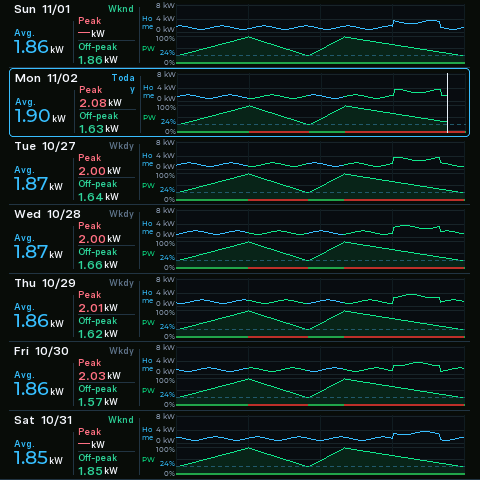
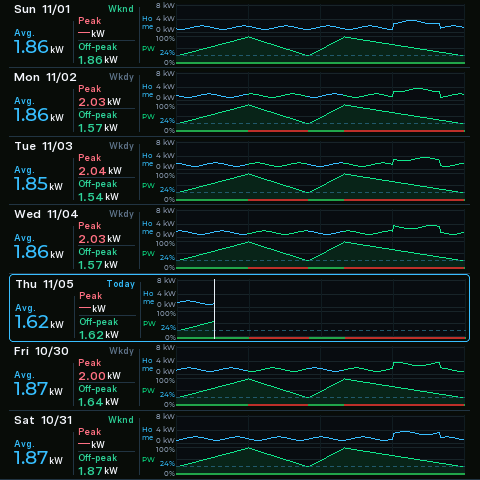
feat(480): 發布 Powerwall 趨勢與週頁標籤更新 v0.1.2

diff --git a/firmware/src/ui_480/ui_480.hpp b/firmware/src/ui_480/ui_480.hpp
@@ -139,6 +139,10 @@ public:
   static constexpr int kPwChartCursorH = 147;
   static constexpr int kPwChartCardY = 303;
   static constexpr int kPwChartCardH = 171;
+  static constexpr int kPowerwallTrendLoadH = kDashboardChartH / 2;
+  static constexpr int kPowerwallTrendSocH = kDashboardChartH - kPowerwallTrendLoadH;
+  static constexpr int kPowerwallTrendLoadY = kPwChartPlotY;
+  static constexpr int kPowerwallTrendSocY = kPwChartPlotY + kPowerwallTrendLoadH;
 
   void setWifiStartupCardMode(uint8_t mode, const char* ssid = nullptr,
                               const char* setupUrl = nullptr) {
@@ -931,6 +935,15 @@ public:
                         last_configured_ && last_telemetry_.ok &&
                         !last_telemetry_.stale && !last_telemetry_.demo;
       const lv_color_t expectedStatus = lv_color_hex(live ? 0x34d399 : 0xff5252);
+      const bool trendChartsValid =
+        pw_chart_canvas_ && lv_obj_get_x(pw_chart_canvas_) == kPwChartPlotX &&
+        lv_obj_get_y(pw_chart_canvas_) == kPowerwallTrendSocY &&
+        lv_obj_get_width(pw_chart_canvas_) == kChartW &&
+        lv_obj_get_height(pw_chart_canvas_) == kPowerwallTrendSocH &&
+        pw_load_chart_canvas_ && lv_obj_get_x(pw_load_chart_canvas_) == kPwChartPlotX &&
+        lv_obj_get_y(pw_load_chart_canvas_) == kPowerwallTrendLoadY &&
+        lv_obj_get_width(pw_load_chart_canvas_) == kChartW &&
+        lv_obj_get_height(pw_load_chart_canvas_) == kPowerwallTrendLoadH;
       return headerClockDotLayoutIsValid(pw_header_clock_, pw_header_status_dot_,
           native480_i18n::kEnglish ? native480_fonts::montserrat_16() : native480_fonts::cjk_13(), 201) &&
         page_header_ && pw_header_title_ && pw_header_clock_ && pw_header_date_ &&
@@ -948,8 +961,7 @@ public:
         lv_obj_get_style_bg_color(pw_header_status_dot_, 0).full == expectedStatus.full &&
         pw_chart_card_ && (lv_obj_get_x(pw_chart_card_) == 9) && (lv_obj_get_y(pw_chart_card_) == 303) &&
         (lv_obj_get_height(pw_chart_card_) == 171) &&
-        pw_chart_canvas_ && (lv_obj_get_x(pw_chart_canvas_) == 36) &&
-        (lv_obj_get_y(pw_chart_canvas_) == 7) && (lv_obj_get_height(pw_chart_canvas_) == 140) &&
+        trendChartsValid &&
         pw_now_line_ && (lv_obj_get_y(pw_now_line_) == 7) &&
         (lv_obj_get_height(pw_now_line_) == 147) &&
         pw_tou_segments_[0] && (lv_obj_get_y(pw_tou_segments_[0]) == 148) &&
@@ -1615,6 +1627,9 @@ private:
   lv_obj_t* pw_capacity_total_value_ = nullptr;
   lv_obj_t* pw_now_line_ = nullptr;
   lv_obj_t* pw_now_dot_ = nullptr;
+  lv_obj_t* pw_load_chart_canvas_ = nullptr;
+  lv_color_t* pw_load_chart_buf_ = nullptr;
+  lv_obj_t* pw_load_now_dot_ = nullptr;
   lv_obj_t* pw_tou_segments_[4] = {};
   lv_obj_t* pw_time_ticks_[5] = {};
   lv_obj_t* pw_reserve_chart_label_ = nullptr;
@@ -2446,15 +2461,32 @@ private:
     dashboard_chart_buf_ = allocPixelBuf(kChartW * kDashboardChartH);
     if (dashboard_chart_buf_) {
       pw_chart_canvas_ = lv_canvas_create(pw_chart_card_);
-      lv_canvas_set_buffer(pw_chart_canvas_, dashboard_chart_buf_, kChartW, kDashboardChartH, LV_IMG_CF_TRUE_COLOR);
-      lv_obj_set_pos(pw_chart_canvas_, 36, 7);
+      lv_canvas_set_buffer(pw_chart_canvas_, dashboard_chart_buf_, kChartW, kPowerwallTrendSocH, LV_IMG_CF_TRUE_COLOR);
+      lv_obj_set_pos(pw_chart_canvas_, kPwChartPlotX, kPowerwallTrendSocY);
       lv_obj_clear_flag(pw_chart_canvas_, LV_OBJ_FLAG_SCROLLABLE);
     }
-    const char* pwAxis[] = {"100%", "75%", "50%", "25%", "0%"};
-    for (int i = 0; i < 5; ++i) {
-      const int y = 3 + static_cast<int>(roundf(i * (kDashboardChartH - 5) / 4.0f));
-      makeDashboardLabel(pw_chart_card_, pwAxis[i], 0, y, 36, native480_fonts::montserrat_13(), 0x94a3b8, LV_TEXT_ALIGN_RIGHT);
+    pw_load_chart_buf_ = allocPixelBuf(kChartW * kPowerwallTrendLoadH);
+    if (pw_load_chart_buf_) {
+      pw_load_chart_canvas_ = lv_canvas_create(pw_chart_card_);
+      lv_canvas_set_buffer(pw_load_chart_canvas_, pw_load_chart_buf_, kChartW, kPowerwallTrendLoadH, LV_IMG_CF_TRUE_COLOR);
+      lv_obj_set_pos(pw_load_chart_canvas_, kPwChartPlotX, kPowerwallTrendLoadY);
+      lv_obj_clear_flag(pw_load_chart_canvas_, LV_OBJ_FLAG_SCROLLABLE);
     }
+    const lv_font_t* const trendAxisFont = native480_fonts::montserrat_12();
+    const lv_font_t* const trendTitleFont = native480_i18n::kEnglish
+      ? native480_fonts::montserrat_12() : native480_fonts::cjk_12();
+    makeDashboardLabel(pw_chart_card_, "10 kW", 0, 1, 36,
+      trendAxisFont, 0x94a3b8, LV_TEXT_ALIGN_RIGHT);
+    makeDashboardLabel(pw_chart_card_, "5 kW", 0, 32, 36,
+      trendAxisFont, 0x94a3b8, LV_TEXT_ALIGN_RIGHT);
+    makeDashboardLabel(pw_chart_card_, "0 kW", 0, 56, 36, trendAxisFont, 0x94a3b8, LV_TEXT_ALIGN_RIGHT);
+    makeDashboardLabel(pw_chart_card_, "100%", 0, 78, 36, trendAxisFont, 0x94a3b8, LV_TEXT_ALIGN_RIGHT);
+    makeDashboardLabel(pw_chart_card_, "0%", 0, 134, 36, trendAxisFont, 0x94a3b8, LV_TEXT_ALIGN_RIGHT);
+    makeDashboardLabel(pw_chart_card_, native480_i18n::kEnglish ? "Home" : "住家",
+      kPwChartPlotX + 3, kPowerwallTrendLoadY + 2,
+      42, trendTitleFont, 0x38bdf8);
+    makeDashboardLabel(pw_chart_card_, "PW", kPwChartPlotX + 3, kPowerwallTrendSocY + 2,
+      28, trendAxisFont, 0x11e58e);
     static const char* pwFixedTicks[] = {"00", "06", "12", "18", "24"};
     for (int i = 0; i < 5; ++i) {
       constexpr int tickWidth = 40;
@@ -2487,6 +2519,14 @@ private:
     lv_obj_set_style_border_color(pw_now_dot_, lv_color_hex(0xffffff), 0);
     lv_obj_set_style_border_width(pw_now_dot_, 1, 0);
     lv_obj_add_flag(pw_now_dot_, LV_OBJ_FLAG_HIDDEN);
+    pw_load_now_dot_ = lv_obj_create(pw_chart_card_);
+    lv_obj_set_size(pw_load_now_dot_, 7, 7);
+    lv_obj_set_style_radius(pw_load_now_dot_, 3, 0);
+    lv_obj_set_style_bg_color(pw_load_now_dot_, lv_color_hex(0x38bdf8), 0);
+    lv_obj_set_style_bg_opa(pw_load_now_dot_, LV_OPA_COVER, 0);
+    lv_obj_set_style_border_color(pw_load_now_dot_, lv_color_hex(0xffffff), 0);
+    lv_obj_set_style_border_width(pw_load_now_dot_, 1, 0);
+    lv_obj_add_flag(pw_load_now_dot_, LV_OBJ_FLAG_HIDDEN);
     pw_reserve_chart_label_ = makeDashboardLabel(pw_chart_card_, "", 0, 0, 0, native480_fonts::home_cjk_20(), 0x7dd3fc, LV_TEXT_ALIGN_RIGHT);
     lv_obj_set_width(pw_reserve_chart_label_, LV_SIZE_CONTENT);
     lv_obj_set_style_bg_color(pw_reserve_chart_label_, lv_color_make(9, 10, 15), 0);
@@ -2982,6 +3022,61 @@ private:
     }
   }
 
+  static uint32_t powerwallTrendLoadColor(HistoryPowerSource source) {
+    if (source == HistoryPowerSource::Grid) return 0x38bdf8;
+    if (source == HistoryPowerSource::Powerwall) return 0x11e58e;
+    return 0x94a3b8;
+  }
+
+  // Match the Week page's source-colored load trace, using the same gap
+  // threshold to avoid connecting missing history.
+  static void renderPowerwallTrendLoadToRgb565(lv_color_t* buffer, int width, int height,
+                                                const HistoryPoint* points, size_t count,
+                                                float maxKw) {
+    if (!buffer || width <= 0 || height <= 0) return;
+    const lv_color_t bg = lv_color_hex(0x090e13);
+    for (int i = 0; i < width * height; ++i) buffer[i] = bg;
+    for (const int y : {1, height / 2, height - 2})
+      for (int x = 0; x < width; ++x)
+        blendDashboardPixel(buffer, width, height, x, y, 148, 163, 184, 0.16f);
+    for (int division = 1; division <= 3; ++division) {
+      const int x = static_cast<int>(roundf(division * (width - 1) / 4.0f));
+      for (int y = 1; y < height - 1; ++y)
+        blendDashboardPixel(buffer, width, height, x, y, 148, 163, 184, 0.10f);
+    }
+    if (!points || count == 0) return;
+
+    auto pointX = [width](float hour) {
+      return std::max(0, std::min(width - 1,
+        static_cast<int>(roundf((hour / 24.0f) * (width - 1)))));
+    };
+    auto pointY = [height, maxKw](float kw) {
+      const float normalized = fminf(1.0f, fmaxf(0.0f, kw / maxKw));
+      return std::max(1, std::min(height - 2,
+        height - 2 - static_cast<int>(roundf(normalized * (height - 3)))));
+    };
+    for (size_t i = 0; i < count; ++i) {
+      const HistoryPoint& point = points[i];
+      if (!std::isfinite(point.hour) || !std::isfinite(point.load_kw)) continue;
+      const int x = pointX(point.hour);
+      const int y = pointY(point.load_kw);
+      const uint32_t color = powerwallTrendLoadColor(point.power_source);
+      if (i > 0) {
+        const HistoryPoint& previous = points[i - 1];
+        if (std::isfinite(previous.hour) && std::isfinite(previous.load_kw) &&
+            point.hour >= previous.hour && point.hour - previous.hour <= 0.17f) {
+          drawDashboardLine(buffer, width, height,
+            pointX(previous.hour), pointY(previous.load_kw), x, y,
+            static_cast<uint8_t>(color >> 16), static_cast<uint8_t>(color >> 8),
+            static_cast<uint8_t>(color));
+        }
+      }
+      putDashboardPixel(buffer, width, height, x, y,
+        static_cast<uint8_t>(color >> 16), static_cast<uint8_t>(color >> 8),
+        static_cast<uint8_t>(color));
+    }
+  }
+
   // Draws the Powerwall gauge at an intro progress of 0..1. Arc, percent text,
   // and reserve marker share one progress value, so the marker and the arc
   // arrive at their targets (configured backup reserve / current SOC) together.
@@ -3105,12 +3200,14 @@ private:
     snprintf(text, sizeof(text), "備援 %d%%", static_cast<int>(roundf(t.backup_reserve_percent)));
     setLabelText480(pw_reserve_chart_label_, text);
     const float reservePct = fminf(100.0f, fmaxf(0.0f, t.backup_reserve_percent));
-    const int reserveY = static_cast<int>(roundf((1.0f - reservePct / 100.0f) * (kDashboardChartH - 4))) + 2;
+    constexpr int reservePlotY = kPowerwallTrendSocY;
+    constexpr int reservePlotH = kPowerwallTrendSocH;
+    const int reserveY = static_cast<int>(roundf((1.0f - reservePct / 100.0f) * (reservePlotH - 4))) + 2;
     lv_obj_update_layout(pw_reserve_chart_label_);
     const int reserveLabelH = lv_obj_get_height(pw_reserve_chart_label_);
     const int reserveLabelW = lv_obj_get_width(pw_reserve_chart_label_);
     lv_obj_set_pos(pw_reserve_chart_label_, kPwChartPlotX + kChartW - reserveLabelW - 3,
-                   kPwChartPlotY + std::max(2, reserveY - reserveLabelH - 3));
+                   reservePlotY + std::max(2, reserveY - reserveLabelH - 3));
 
     if (t.has_battery_voltage && t.battery_voltage_v > 0.0f) {
       snprintf(text, sizeof(text), "%.1f V", t.battery_voltage_v);
@@ -3198,23 +3295,38 @@ private:
     }
 
     if (dashboard_chart_buf_ && active_dashboard_page_ == 1) {
-      renderAreaChartToRgb565(dashboard_chart_buf_, kChartW, kDashboardChartH,
+      constexpr float maxKw = 10.0f;
+      if (pw_load_chart_buf_ && pw_load_chart_canvas_) {
+        renderPowerwallTrendLoadToRgb565(pw_load_chart_buf_, kChartW, kPowerwallTrendLoadH,
+          t.history, t.history_count, maxKw);
+        lv_obj_invalidate(pw_load_chart_canvas_);
+      }
+      renderAreaChartToRgb565(dashboard_chart_buf_, kChartW, kPowerwallTrendSocH,
         t.history, t.history_count, true, 100.0f, 17, 229, 142,
         t.backup_reserve_percent, false, 1.0f);
-      for (int division = 1; division <= 3; ++division) {
-        const int y = static_cast<int>(roundf((division / 4.0f) * (kDashboardChartH - 1)));
-        for (int x = 0; x < kChartW; ++x) {
-          blendDashboardPixel(dashboard_chart_buf_, kChartW, kDashboardChartH, x, y, 148, 163, 184, 0.12f);
-        }
-      }
+      for (int x = 0; x < kChartW; ++x)
+        blendDashboardPixel(dashboard_chart_buf_, kChartW, kPowerwallTrendSocH,
+          x, 1, 148, 163, 184, 0.12f);
       if (t.history_count > 0) {
         const HistoryPoint& latest = t.history[t.history_count - 1];
-        const int x = std::max(0, std::min(kChartW - 1, static_cast<int>(roundf((latest.hour / 24.0f) * (kChartW - 1)))));
-        const int y = std::max(2, std::min(kDashboardChartH - 2,
-          static_cast<int>(roundf((1.0f - fminf(1.0f, fmaxf(0.0f, latest.soe / 100.0f))) * (kDashboardChartH - 5))) + 2));
-        lv_obj_set_pos(pw_now_dot_, kPwChartPlotX + x - 3, kPwChartPlotY + y - 3);
+        const int x = std::max(0, std::min(kChartW - 1,
+          static_cast<int>(roundf((latest.hour / 24.0f) * (kChartW - 1)))));
+        const float loadNorm = fminf(1.0f, fmaxf(0.0f, latest.load_kw / maxKw));
+        const int loadY = std::max(1, std::min(kPowerwallTrendLoadH - 2,
+          kPowerwallTrendLoadH - 2 - static_cast<int>(roundf(loadNorm * (kPowerwallTrendLoadH - 3)))));
+        const float soeNorm = fminf(1.0f, fmaxf(0.0f, latest.soe / 100.0f));
+        const int soeY = std::max(2, std::min(kPowerwallTrendSocH - 1,
+          static_cast<int>(roundf((1.0f - soeNorm) * (kPowerwallTrendSocH - 3)) + 2)));
+        lv_obj_set_style_bg_color(pw_load_now_dot_,
+          lv_color_hex(powerwallTrendLoadColor(latest.power_source)), 0);
+        lv_obj_set_pos(pw_load_now_dot_, kPwChartPlotX + x - 3,
+          kPowerwallTrendLoadY + loadY - 3);
+        lv_obj_set_pos(pw_now_dot_, kPwChartPlotX + x - 3,
+          kPowerwallTrendSocY + soeY - 3);
+        lv_obj_clear_flag(pw_load_now_dot_, LV_OBJ_FLAG_HIDDEN);
         lv_obj_clear_flag(pw_now_dot_, LV_OBJ_FLAG_HIDDEN);
       } else {
+        lv_obj_add_flag(pw_load_now_dot_, LV_OBJ_FLAG_HIDDEN);
         lv_obj_add_flag(pw_now_dot_, LV_OBJ_FLAG_HIDDEN);
       }
       lv_obj_invalidate(pw_chart_canvas_);
@@ -3509,6 +3621,7 @@ private:
     if (home_now_dot_) lv_obj_set_style_opa(home_now_dot_,
       (now_ms / 500UL) % 2 == 0 ? LV_OPA_COVER : LV_OPA_TRANSP, 0);
     const lv_opa_t pointOpa = (now_ms / 500UL) % 2 == 0 ? LV_OPA_COVER : LV_OPA_TRANSP;
+    if (pw_load_now_dot_) lv_obj_set_style_opa(pw_load_now_dot_, pointOpa, 0);
     if (chart1_now_dot_) lv_obj_set_style_opa(chart1_now_dot_, pointOpa, 0);
     if (chart2_now_dot_) lv_obj_set_style_opa(chart2_now_dot_, pointOpa, 0);
     if (now_ms - last_periodic_check_ms_ < 1000UL) return;

diff --git a/README.en.md b/README.en.md
@@ -4,7 +4,7 @@
 
 Powerwall Gateway dashboard firmware for the Waveshare ESP32-S3-Touch-LCD-4B. See the [Waveshare product page](https://www.waveshare.com/esp32-s3-touch-lcd-4b.htm) for the board.
 
-The v0.1.1 release provides Traditional Chinese and English firmware, spoken alerts, local settings, and on-device history. The repository also includes an LVGL simulator and firmware build/package tools.
+The v0.1.2 release provides Traditional Chinese and English firmware, spoken alerts, local settings, and on-device history. The Powerwall page adds a home-use trend, and the Week page keeps the Today badge on one line. The repository also includes an LVGL simulator and firmware build/package tools.
 
 ## Screenshots
 
@@ -48,7 +48,7 @@ These pages were rendered by this project's simulator with synthetic demo data. 
 - Enter your Wi-Fi name and password, the Gateway IP and password, and your time zone. The default is UTC+08:00; whole-hour offsets from UTC−12:00 through UTC+14:00 are supported and stored in NVS.
 - After the device joins Wi-Fi, open Settings → Info and read **Settings URL**. From a phone or computer on the same Wi-Fi, open that address to revisit the settings page.
 
-## v0.1.1 flashing steps
+## v0.1.2 flashing steps
 
 ### 1. Get the `main` scripts and firmware ZIP
 
@@ -66,32 +66,32 @@ git checkout main
 git pull origin main
 ```
 
-Download `powerwall-dashboard-esp32-v0.1.1-firmware.zip` from the [v0.1.1 GitHub Release](https://github.com/superdhuang/powerwall-dashboard-esp32/releases/tag/v0.1.1) and extract it into the repository root:
+Download `powerwall-dashboard-esp32-v0.1.2-firmware.zip` from the [v0.1.2 GitHub Release](https://github.com/superdhuang/powerwall-dashboard-esp32/releases/tag/v0.1.2) and extract it into the repository root:
 
 ```sh
-curl -fL 'https://github.com/superdhuang/powerwall-dashboard-esp32/releases/download/v0.1.1/powerwall-dashboard-esp32-v0.1.1-firmware.zip' -o /tmp/powerwall-dashboard-esp32-v0.1.1-firmware.zip
-unzip -o /tmp/powerwall-dashboard-esp32-v0.1.1-firmware.zip -d .
+curl -fL 'https://github.com/superdhuang/powerwall-dashboard-esp32/releases/download/v0.1.2/powerwall-dashboard-esp32-v0.1.2-firmware.zip' -o /tmp/powerwall-dashboard-esp32-v0.1.2-firmware.zip
+unzip -o /tmp/powerwall-dashboard-esp32-v0.1.2-firmware.zip -d .
 ```
 
-The expected directories are `flash_images/esp32-s3-lcd-4b/releases/v0.1.1/zh/` and `en/`. Each contains a `manifest.json`, `app.bin`, `assets.bin`, and the other images. To build the bundle yourself, follow the build instructions below from the `v0.1.1` tag, then switch back to `main` for the flash scripts.
+The expected directories are `flash_images/esp32-s3-lcd-4b/releases/v0.1.2/zh/` and `en/`. Each contains a `manifest.json`, `app.bin`, `assets.bin`, and the other images. To build the bundle yourself, follow the build instructions below from the `v0.1.2` tag, then switch back to `main` for the flash scripts.
 
 ### 2. Check the manifests and SHA-256
 
-Confirm that both manifests identify release v0.1.1, the matching language, and the Waveshare S3 target; then verify every file checksum from the ZIP:
+Confirm that both manifests identify release v0.1.2, the matching language, and the Waveshare S3 target; then verify every file checksum from the ZIP:
 
 ```sh
 python3 - <<'PY'
 import json
 from pathlib import Path
-root = Path('flash_images/esp32-s3-lcd-4b/releases/v0.1.1')
+root = Path('flash_images/esp32-s3-lcd-4b/releases/v0.1.2')
 for lang in ('zh', 'en'):
     manifest = json.loads((root / lang / 'manifest.json').read_text())
-    assert manifest['release_id'] == 'v0.1.1'
+    assert manifest['release_id'] == 'v0.1.2'
     assert manifest['language'] == lang
     assert manifest['target'] == 'waveshare-esp32s3-touch-lcd-4b'
     print(f'{lang}: manifest OK')
 PY
-(cd flash_images/esp32-s3-lcd-4b/releases/v0.1.1 && shasum -a 256 -c SHA256SUMS)
+(cd flash_images/esp32-s3-lcd-4b/releases/v0.1.2 && shasum -a 256 -c SHA256SUMS)
 ```
 
 ### 3. Find the device serial port
@@ -142,14 +142,14 @@ Full-flash logs are saved under `log/write-full*.log`. After the erase, the devi
 
 ## Build from source
 
-Install PlatformIO Core and Python 3. To build the v0.1.1 package from its original source, check out the release tag and run this from the repository root:
+Install PlatformIO Core and Python 3. To build the v0.1.2 package from its original source, check out the release tag and run this from the repository root:
 
 ```sh
-git checkout v0.1.1
-python3 firmware/tools/package_s3_release.py --release-id v0.1.1
+git checkout v0.1.2
+python3 firmware/tools/package_s3_release.py --release-id v0.1.2
 ```
 
-This builds the zh/en release images under `flash_images/esp32-s3-lcd-4b/releases/v0.1.1/{zh,en}` and records the app/assets hashes and source commit in each manifest. To build only the app images, run these from the repository root:
+This builds the zh/en release images under `flash_images/esp32-s3-lcd-4b/releases/v0.1.2/{zh,en}` and records the app/assets hashes and source commit in each manifest. To build only the app images, run these from the repository root:
 
 ```sh
 pio run -d firmware -e waveshare-esp32s3-touch-lcd-4b-release
@@ -158,11 +158,11 @@ pio run -d firmware -e waveshare-esp32s3-touch-lcd-4b-en-release
 
 `.gitignore` excludes `flash_images/`; binary release assets are distributed separately from the source repository.
 
-The published v0.1.1 ZIP and its `SHA256SUMS` are the checksum reference for that release. A rebuild is not guaranteed to be byte-for-byte identical because PlatformIO uses the upstream `stable` platform. `main` contains a later source cleanup that removes the 720/P4 targets and old web simulator; the v0.1.1 tag and published release assets remain unchanged.
+The published v0.1.2 ZIP and its `SHA256SUMS` are the checksum reference for that release. A rebuild is not guaranteed to be byte-for-byte identical because PlatformIO uses the upstream `stable` platform. The existing v0.1.1 tag and release assets remain unchanged.
 
 ## Simulator source
 
-The Git source tracks the simulator code, not compiled binaries. The v0.1.1 [GitHub Release](https://github.com/superdhuang/powerwall-dashboard-esp32/releases/tag/v0.1.1) also offers an optional macOS arm64 simulator ZIP for macOS 26 or later. SDL2 is not bundled; install it locally with Homebrew using `brew install sdl2`. Building from source requires an Apple Silicon Mac, Homebrew SDL2, PlatformIO Core, and Python 3. After a fresh clone, install the PlatformIO package dependencies, then build each language:
+The Git source tracks the simulator code, not compiled binaries. The v0.1.2 [GitHub Release](https://github.com/superdhuang/powerwall-dashboard-esp32/releases/tag/v0.1.2) also offers an optional macOS arm64 simulator ZIP for macOS 26 or later. SDL2 is not bundled; install it locally with Homebrew using `brew install sdl2`. Building from source requires an Apple Silicon Mac, Homebrew SDL2, PlatformIO Core, and Python 3. After a fresh clone, install the PlatformIO package dependencies, then build each language:
 
 ```sh
 pio pkg install -d firmware -e waveshare-esp32s3-touch-lcd-4b

diff --git a/firmware/src/ui_480/README.md b/firmware/src/ui_480/README.md
@@ -11,7 +11,7 @@ make firmware_sim_native480 firmware_sim_native480_en
 Release build/package:
 
 ```sh
-python3 firmware/tools/package_s3_release.py --release-id v0.1.1
+python3 firmware/tools/package_s3_release.py --release-id v0.1.2
 ```
 
 See the root [繁體中文 README](../../../README.md) or [English README](../../../README.en.md) for setup and update instructions.
